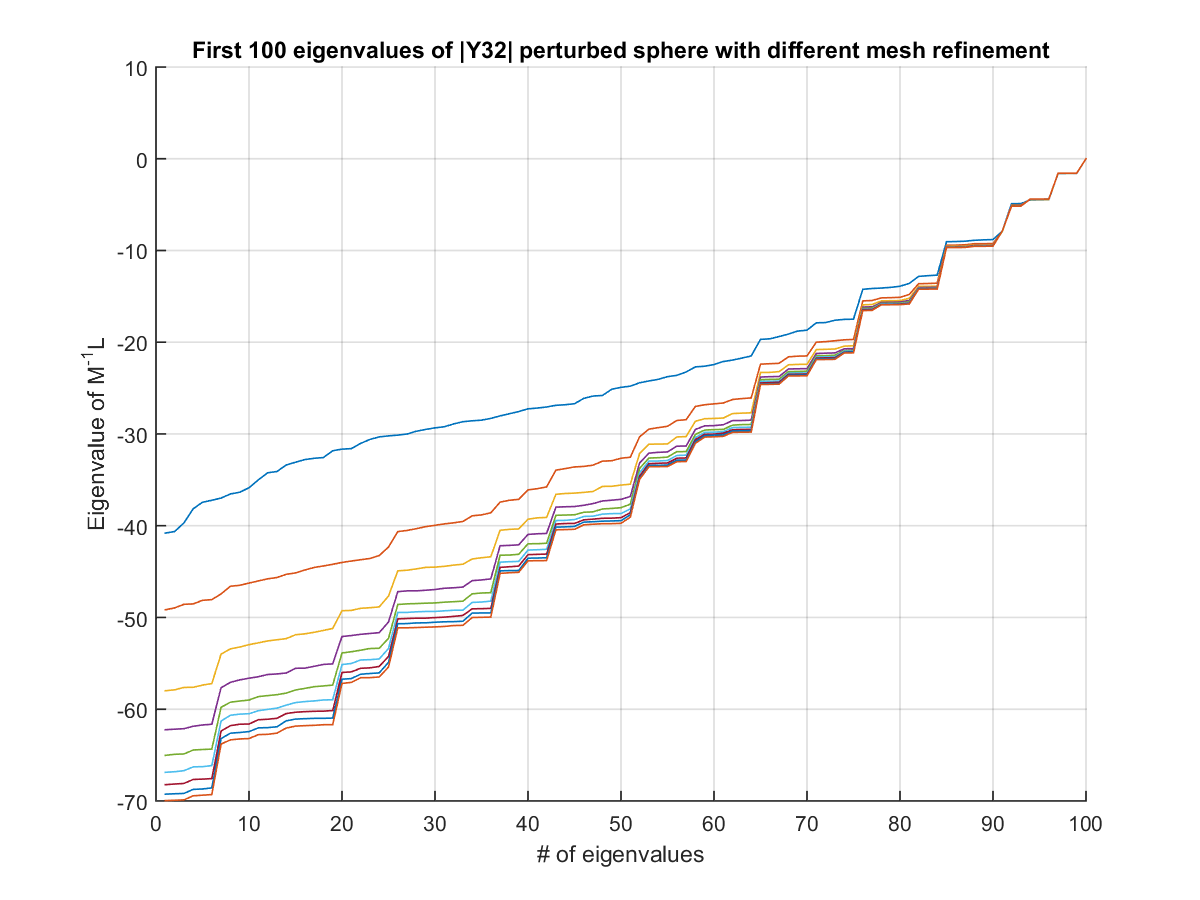
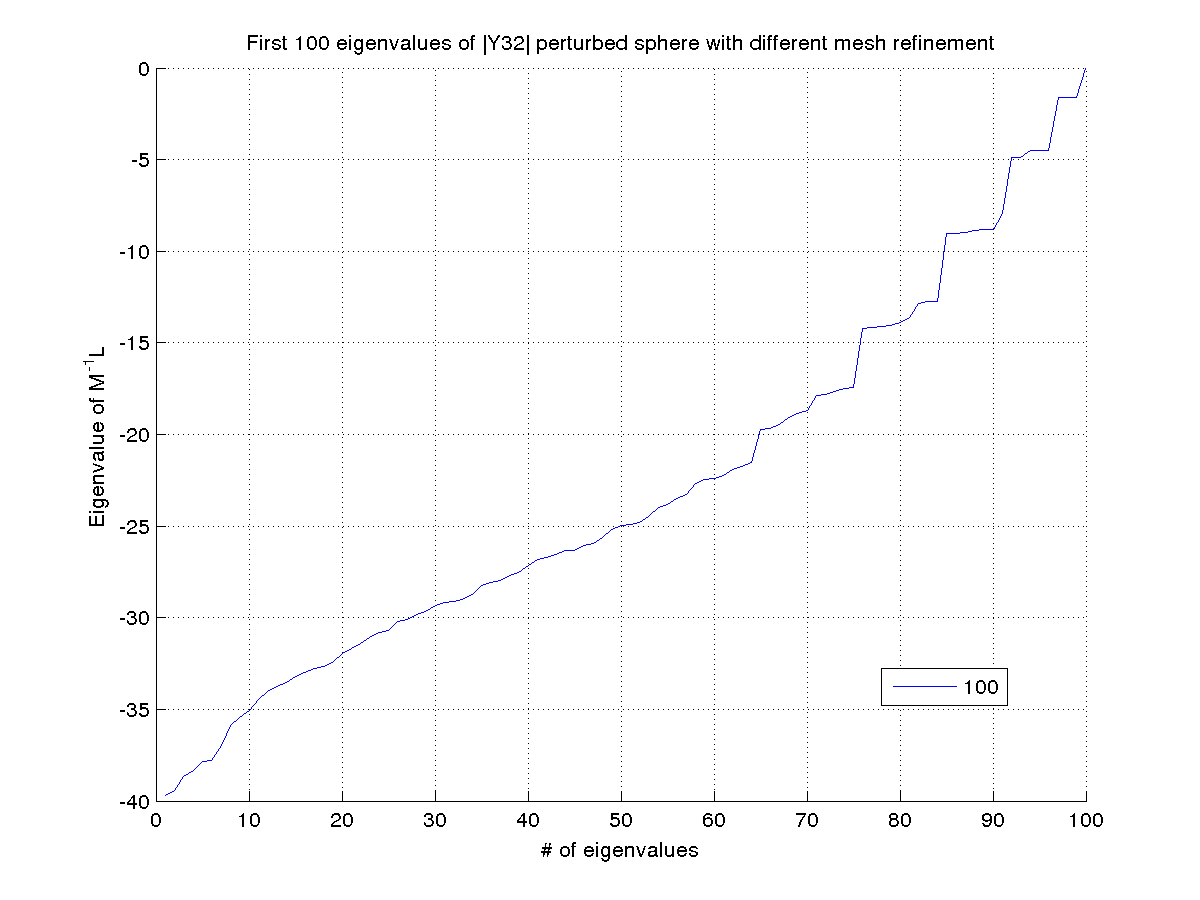
better anal

diff --git a/analysis.m b/analysis.m
@@ -1,23 +1,24 @@
-close all;
-figure(); hold all; grid on;
-numeig = ceil(.6*200);
-for pert = [0.4 .6 .7 .8 .9 1 1.5]
-  load(num2str(pert,'i2_200_t2_abs(Y32(v))_e0.6p%g.mat'));
-  [M,L] = lapbel(v,f);
-  [M_T,L_T] = lapbel(v_T,f_T);
-  [M_end,L_end] = lapbel(v_end,f);
-  D_T = eigvf(L_T,M_T,numeig);
-  %%
-%   figure(); hold all; grid on;
-%   ylim([0 .2]);
-%   plot(diag(M))
-%   plot(diag(M_T))
-%   plot(diag(M_end))
-  plot(D_T);
-  pause(1);
-end
+%% test perturbation effect
+% close all;
+% figure(); hold all; grid on;
+% numeig = ceil(.6*200);
+% for pert = [0.4 .6 .7 .8 .9 1 1.5]
+%   load(num2str(pert,'i2_200_t2_abs(Y32(v))_e0.6p%g.mat'));
+%   [M,L] = lapbel(v,f);
+%   [M_T,L_T] = lapbel(v_T,f_T);
+%   [M_end,L_end] = lapbel(v_end,f);
+%   D_T = eigvf(L_T,M_T,numeig);
 
-%%
+% %   figure(); hold all; grid on;
+% %   ylim([0 .2]);
+% %   plot(diag(M))
+% %   plot(diag(M_T))
+% %   plot(diag(M_end))
+%   plot(D_T);
+%   pause(1);
+% end
+
+%% test mesh refinement laplacian eig convergence
 close all;
 figure(); hold all; grid on;
 vnorm = @(v) sqrt(v(:,3).^2+v(:,1).^2+v(:,2).^2);
@@ -25,10 +26,11 @@ Y32 = @(v) (v(:,1).^2-v(:,2).^2).*v(:,3)./(vnorm(v)).^3;
 target_data.dat = @(v) abs(Y32(v));
 numeig = 100;
 pert = .6; % scaling coefficient used to control target perturbation
-for ssize = 100:100:900
+for ssize = 1e2:1e2:1e3
   v = ParticleSampleSphere('Vo',RandSampleSphere(ssize));
   f = fliplr(convhulln(v));
   [M,L] = lapbel(v,f);
+  D(:,ssize/100) = eigvf(L,M,numeig);
   Hn = .5*[inv(M)*L*v(:,1) inv(M)*L*v(:,2) inv(M)*L*v(:,3)];
   H = vnorm(Hn);
   vn = Hn./repmat(H,1,3);
@@ -37,50 +39,27 @@ for ssize = 100:100:900
   [M_T,L_T] = lapbel(v_T,f_T);
   D_T = eigvf(L_T,M_T,numeig);
   plot(D_T);
-  pause(1);
+%   pause(1);
 end
 
+legend('100','200','300','400','500','600','700','800','900','1E3',...
+  'location','best');
 xlabel('# of eigenvalues'); ylabel('Eigenvalue of M^{-1}L');
 title('First 100 eigenvalues of |Y32| perturbed sphere with different mesh refinement');
 saveas(gcf,'Y32_spectrum.png');
-save('Y32_spectrum_900.mat','D_T');
-%% compare sphere spectrum
+%% compare mesh refinement sphere spectrum
 close all;
-numeig = 100;
-ssize = 900;
-v = ParticleSampleSphere('Vo',RandSampleSphere(ssize));
-f = fliplr(convhulln(v));
-[M,L] = lapbel(v,f);
-
 D_s = [];
 for l = 0:9
     D_s = [repmat(-l*(l+1),1,2*l+1), D_s];
 end
-D = eigvf(L,M,numeig);
 figure(); hold all; grid on;
-plot(D_s)
-plot(D)
-legend('900 vtx sphere','theoretical','location','best');
-xlabel('# of eigenvalues'); ylabel('Eigenvalue of M^{-1}L');
-title('First 100 eigenvalues of sphere');
-saveas(gcf,'sphere_spectrum_900.png');
-%%
-close all;
-numeig = 100;
-ssize = 100;
-v = ParticleSampleSphere('Vo',RandSampleSphere(ssize));
-f = fliplr(convhulln(v));
-[M,L] = lapbel(v,f);
-
-D_s = [];
-for l = 0:9
-    D_s = [repmat(-l*(l+1),1,2*l+1), D_s];
+for i = 1:10
+  plot(D(:,i))
 end
-D = eigvf(L,M,numeig);
-figure(); hold all; grid on;
 plot(D_s)
-plot(D)
-legend('100 vtx sphere','theoretical','location','best');
+legend('100','200','300','400','500','600','700','800','900','1E3',...
+  'theoretical','location','best');
 xlabel('# of eigenvalues'); ylabel('Eigenvalue of M^{-1}L');
 title('First 100 eigenvalues of sphere');
-saveas(gcf,'sphere_spectrum_100.png');
+saveas(gcf,'sphere_spectrum.png');

diff --git a/ParticleSampleSphere.m b/ParticleSampleSphere.m
@@ -26,7 +26,7 @@ function [V,Tri,Ue_i,Ue]=ParticleSampleSphere(varargin)
 %   - 'Etol' : convergence tolerance. Etol must be a real, positive number.
 %              Etol=1E-5 is the default setting.
 %   - 'Nitr' : Maximum number of iterations. Nitr must be a non-negative 
-%              integer. Nitr=1E3 is the default setting.
+%              integer. Nitr=5E3 is the default setting.
 %
 % OUTPUT:
 %   - V     : N-by-3 array of vertex positions.
@@ -229,7 +229,7 @@ function [V,s,Etol,Nitr]=VerifyInputArgs(VarsIn)
 % Make sure all supplied input arguments have valid format
 
 % Default settings
-s=1; Etol=1E-5; Nitr=1E3;
+s=1; Etol=1E-5; Nitr=5E3;
 V=[];
 if isempty(VarsIn)
     V=RandSampleSphere;
